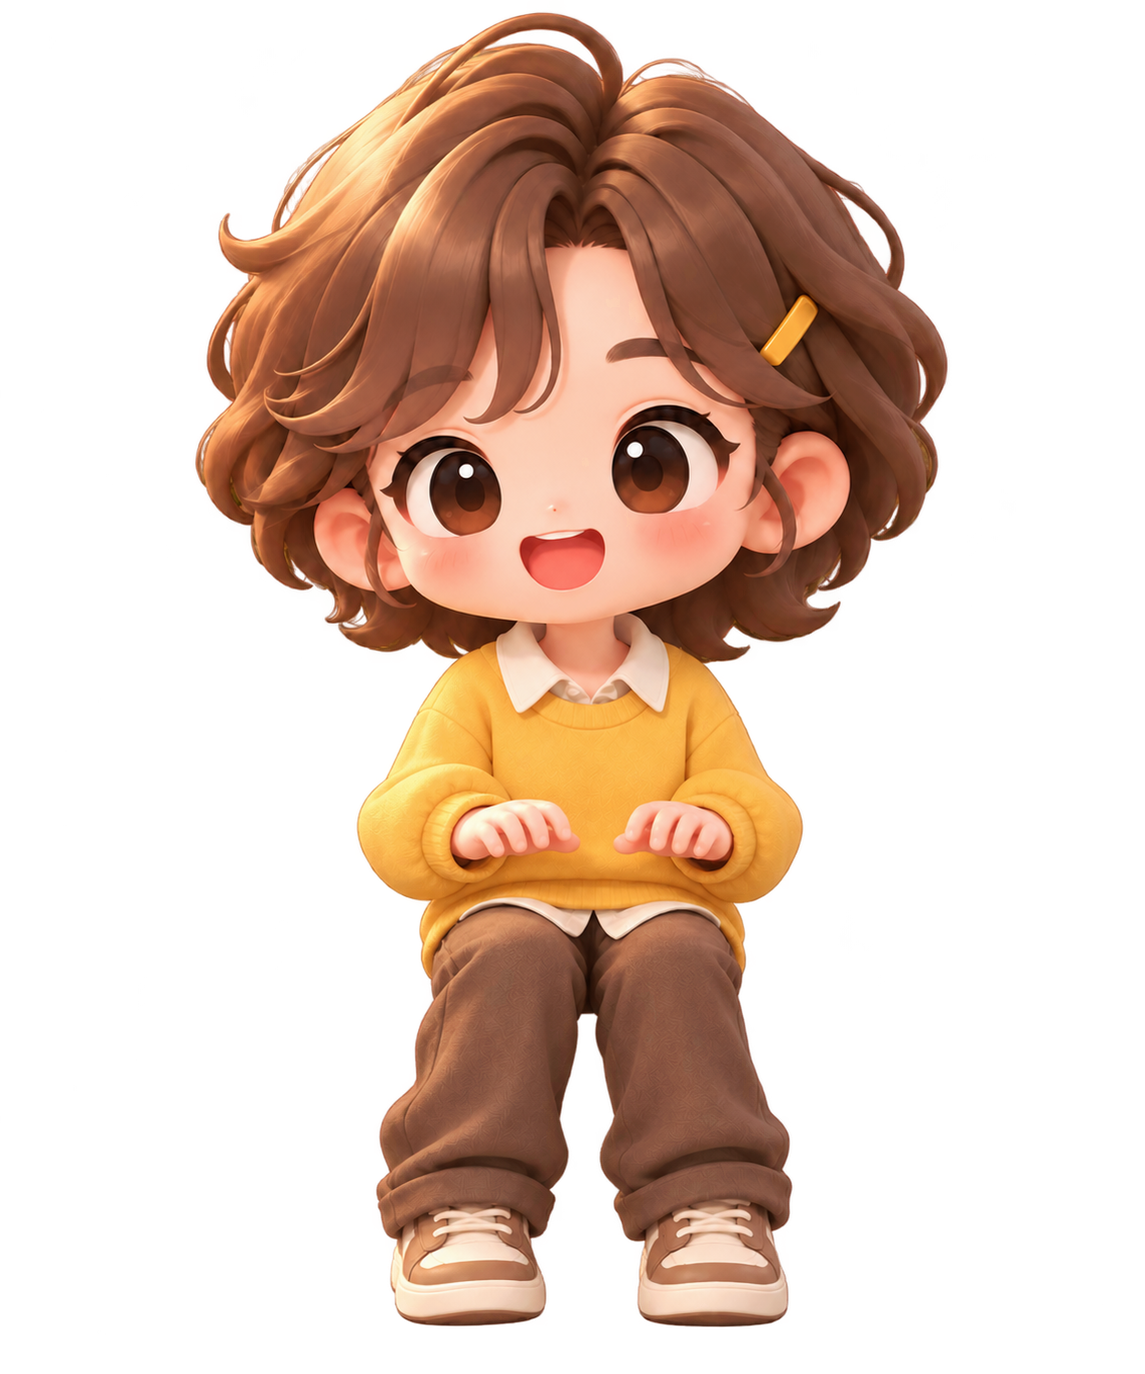
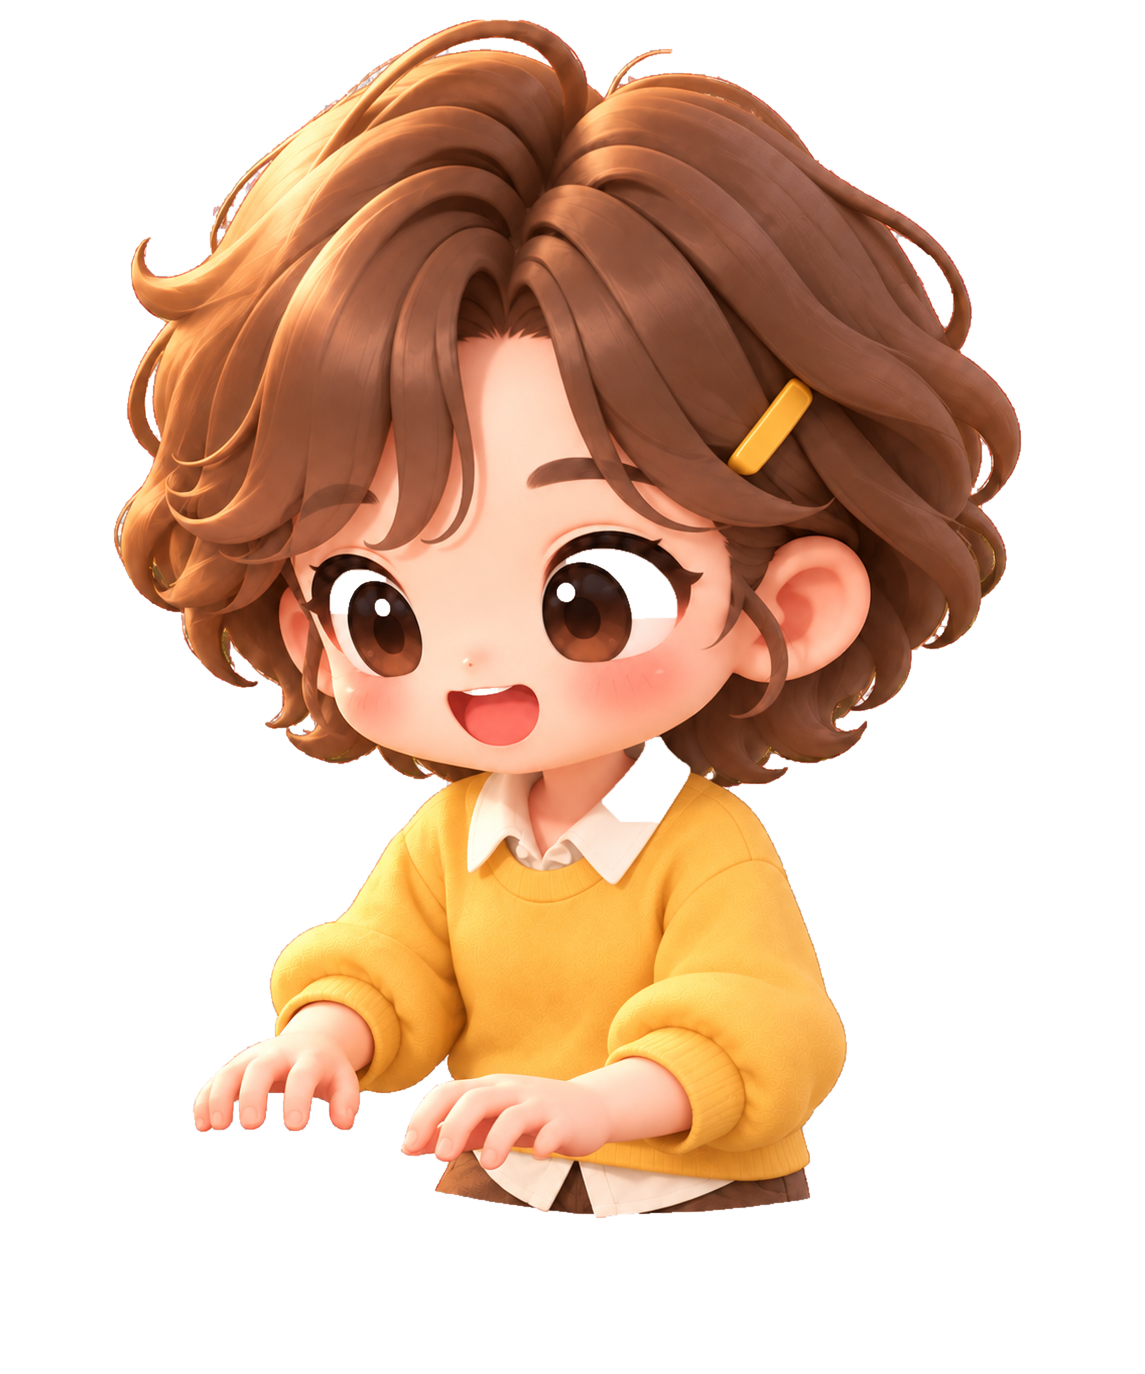
뒤로 걷고 통통 뛰고 책상을 관통하던 것 — 들어온 원화를 코드가 쓰게 한다 (#565)
* fix(console): 그림 없이 몸만 튀던 걸음 — 걸음 그림이 있을 때만 상하 흔들림을 얹는다

상하 흔들림(bob)은 걸음 **그림 위에 더해지는 보조 신호**로 설계됐는데, 그림이
없는 사람에게는 그것이 유일한 움직임이 된다. 걸음 원화는 스무 명 중 일곱만
있으므로, 나머지 열셋은 다리가 멈춘 채 몸만 위아래로 튄다 — 사용자가 "통통
뛰어다닌다" 고 본 것이 이것이다.

그림이 있는지 보고 그때만 얹는다. 없으면 bob 없이 미끄러지듯 지나가는데,
제자리뛰기보다 덜 어색하다. 근본 해결은 나머지 열세 명의 걸음 원화다.

검증: swift build · ConsoleCoreTests 9894건 · --color-check.

* feat(console): 걸음 원화 스무 명 전원과 허리 없는 착석 원화 — 뛰던 걸음과 관통하던 책상을 함께 잡는다

에셋 두 벌이 들어와 코드가 그것을 쓰게 한다(외부 제작).

**걸음 원화가 일곱 명에서 스무 명 전원으로 늘었다.** 그림이 없는 열세 명은
상하 흔들림(bob)이 유일한 움직임이라 다리가 멈춘 채 몸만 튀었다 — 사용자가
"통통 뛰어다닌다" 고 본 것이 이것이다. bob 을 그림이 있을 때만 얹도록 바꿨고,
이제 전원이 그림을 가져 검사가 항상 참이지만 그대로 둔다. 원화가 빠지거나 새
인덱스가 늘어나는 순간 같은 증상이 조용히 돌아오는 자리다.

**`sit` 원화가 허리 아래 없이 팔을 앞으로 뻗은 그림으로 다시 그려졌다**(일곱 명).
책상 뒤에 놓으면 다리가 샐 자리가 없어 "책상을 관통한" 인상이 사라진다 — 좌석
높이를 세 번 옮기고 의자를 넣고 가림판까지 대 봤지만 남던 어긋남이었다. 원인은
옛 `sit`·`typing` 이 "의자에 앉아 다리를 뻗은" 정면 그림이라 3/4 시점 책상과
원근이 맞지 않는 것이었고, 값으로는 잘리는 위치만 바뀌었다.

그래서 `typing` 요청이 **앉은 그림을 먼저 보게** 한다. 새 `sit` 이 이미 타이핑
자세라 `typing` 원화를 따로 쓸 이유가 없고, 그쪽은 옛 그림이라 같은 어긋남을
그대로 갖는다. 아직 안 바뀐 인덱스를 위해 `typing` 은 대체로 남긴다.

에셋 검사도 걸음 일곱 장이 아니라 **전원**을 요구하도록 넓혔다(외부 변경 반영).

검증: swift build · ConsoleCoreTests 9895건 · --asset-check(걸음 20장) ·
--color-check · `--busy-demo` 전체 렌더에서 교체된 인덱스가 상반신만으로
책상에 앉는 것 육안 확인.

* fix(console): 앞뒤가 섞여 있던 걸음 원화 — 이름을 내용에 맞추고 방향이 그림을 고르게 한다

들어온 걸음 원화 스무 장이 **내용상 두 벌**이었다. 기존 일곱 장(1·2·3·16~19)은
이쪽을 보고 걸어오는 앞모습이고, 새로 받은 열세 장(0·4~15)은 뒤통수가 보이는
뒷모습이다. 그런데 파일명이 모두 `-walk` 였고 코드도 방향과 무관하게 그 한 장만
[…]

diff --git a/clients/idaeri-console/Sources/ConsoleCoreTests/OfficeChoreographyTests.swift b/clients/idaeri-console/Sources/ConsoleCoreTests/OfficeChoreographyTests.swift
@@ -189,10 +189,13 @@ func runCozyPoseContractTests(_ t: TestRunner) {
         resolveCozyPose(requested: "typing", assetIndex: 10, hasAsset: cozyPoseAssetExists(10)),
         ResolvedCozyPose(pose: "sit", posture: .seated),
         "타이핑 그림이 없으면 기본 그림이 아니라 앉은 그림")
+    // 타이핑 요청은 **앉은 그림을 먼저 본다.** `sit` 원화가 허리 아래 없이 팔을 앞으로
+    // 뻗은 그림으로 다시 그려져, 책상 뒤에서 다리가 샐 자리가 없다. 옛 `typing` 원화는
+    // 의자에 앉아 다리를 뻗은 그림이라 3/4 시점 책상과 원근이 어긋난다.
     t.expectEqual(
         resolveCozyPose(requested: "typing", assetIndex: 0, hasAsset: cozyPoseAssetExists(0)),
-        ResolvedCozyPose(pose: "typing", posture: .seated),
-        "타이핑 그림이 있으면 그대로")
+        ResolvedCozyPose(pose: "sit", posture: .seated),
+        "타이핑 요청은 앉은 그림으로 해결한다")
     // 18번 `typing` 은 태블릿을 들고 **서 있는** 그림이다. 책상 좌석에 쓰면 혼자 선 채로 일한다.
     t.expectEqual(
         resolveCozyPose(requested: "typing", assetIndex: 18, hasAsset: cozyPoseAssetExists(18)),
@@ -237,17 +240,31 @@ func runCozyPoseContractTests(_ t: TestRunner) {
     // 인자를 생략하면 예전대로 요청 이름이 자세를 정한다(오피스 좌석 경로가 이 기본값을 쓴다).
     t.expectEqual(
         resolveCozyPose(requested: "typing", assetIndex: 1, hasAsset: cozyPoseAssetExists(1)),
-        ResolvedCozyPose(pose: "typing", posture: .seated),
-        "자세를 요구하지 않으면 typing 은 여전히 앉은 그림")
+        ResolvedCozyPose(pose: "sit", posture: .seated),
+        "자세를 요구하지 않으면 typing 은 여전히 앉은 자세로 해결된다")
 
-    // 걸음 그림 — 가진 사람은 그대로, 없는 사람은 정지 그림으로 접힌다(몸 기울기만 남는다).
+    // 걸음 그림은 **보는 방향으로 갈린다.** 앞모습은 1·2·3·16~19 일곱 명, 뒷모습은
+    // 0·4~15 열세 명이 가지고 있다. 반대 방향 그림으로 대신하면 뒷걸음질이 되므로
+    // 한쪽만 가진 사람은 그 반대 방향에서 정지 그림으로 접힌다.
     t.expectEqual(
         resolveCozyPose(requested: "walk", assetIndex: 1, hasAsset: cozyPoseAssetExists(1)),
         ResolvedCozyPose(pose: "walk", posture: .standing),
-        "걸음 그림이 있으면 그대로")
+        "앞모습 걸음 그림이 있으면 그대로")
+    t.expectEqual(
+        resolveCozyPose(requested: "walk-up", assetIndex: 10, hasAsset: cozyPoseAssetExists(10)),
+        ResolvedCozyPose(pose: "walk-up", posture: .standing),
+        "뒷모습 걸음 그림이 있으면 그대로")
+    // **반대 방향으로는 새지 않는다.** 10번은 뒷모습만 있으므로 앞모습 요청은 정지 그림으로
+    // 내려가야 한다 — 여기서 `walk-up` 이 뽑히면 이쪽으로 걸어오는 사람이 뒤통수를 보인다.
     t.expectEqual(
         resolveCozyPose(requested: "walk", assetIndex: 10, hasAsset: cozyPoseAssetExists(10)).pose,
-        cozyIdlePose, "걸음 그림이 없으면 정지 그림")
+        cozyIdlePose, "앞모습이 없으면 뒷모습을 대신 쓰지 않는다")
+    t.expectEqual(
+        resolveCozyPose(requested: "walk-up", assetIndex: 1, hasAsset: cozyPoseAssetExists(1)).pose,
+        cozyIdlePose, "뒷모습이 없으면 앞모습을 대신 쓰지 않는다")
+    t.expectEqual(
+        resolveCozyPose(requested: "walk", assetIndex: 10, hasAsset: { _ in false }).pose,
+        cozyIdlePose, "걸음 그림 파일이 없으면 정지 그림")
 
     // 손에 든 물건이 뜻을 나르므로 가까운 자세로 옮긴다. 0번은 writing 이 있고, 2번은 writing
     // 없이 reading 만 있으며, 10번은 둘 다 없다.

diff --git a/clients/idaeri-console/Sources/ConsoleCore/OfficeChoreography.swift b/clients/idaeri-console/Sources/ConsoleCore/OfficeChoreography.swift
@@ -103,6 +103,8 @@ public func normalizedCozyPose(_ requested: String) -> String {
         return "stowing"
     case "walk":
         return "walk"
+    case "walk-up", "walkup":
+        return "walk-up"
     default:
         return cozyIdlePose
     }
@@ -151,10 +153,13 @@ public func cozyPoseCandidates(_ normalized: String) -> [String] {
     switch normalized {
     case "sit":
         return ["sit"]
-    // 타이핑 그림이 없으면 **앉은 그림**으로 내려간다. `idle`(서 있는 그림)로 내려가면
-    // 책상 좌석에서 그 사람만 책상 위에 올라선 것처럼 보인다.
+    // **앉은 그림을 먼저 본다.** `sit` 원화는 허리 아래가 없고 팔을 앞으로 뻗은 그림으로
+    // 다시 그려졌다 — 책상 뒤에 놓으면 다리가 샐 자리가 없어 "책상을 관통한" 인상이
+    // 사라진다(사용자 보고로 재제작). 그 자세가 이미 타이핑이라 `typing` 원화를 따로
+    // 쓸 이유가 없고, `typing` 은 의자에 앉아 다리를 뻗은 옛 그림이라 3/4 시점 책상과
+    // 원근이 어긋난다. 아직 안 바뀐 인덱스를 위해 `typing` 은 대체로 남긴다.
     case "typing":
-        return ["typing", "sit"]
+        return ["sit", "typing"]
     case "reading":
         return ["reading"]
     case "writing":
@@ -165,10 +170,16 @@ public func cozyPoseCandidates(_ normalized: String) -> [String] {
         return ["writing", "reading"]
     case "stowing":
         return ["reading"]
-    // 걸음 그림은 대신할 것이 없다 — 없으면 정지 그림으로 내려가고, 그때는 몸 기울기
-    // (`officeWalkLean`)만 남아 걷는 티가 옅어진다. 스무 명 중 일곱만 가지고 있다.
+    // 걸음 그림은 **보는 방향이 다르면 대신할 수 없다.** 뒤통수 그림을 이쪽으로 걸어오는
+    // 사람에게 쓰면 뒷걸음질이 되고, 그 반대도 마찬가지다. 없으면 정지 그림으로 내려가고
+    // 그때는 몸 기울기(`officeWalkLean`)만 남는다.
+    //
+    // 원화가 두 벌로 갈려 있다 — 앞모습 일곱 명(1·2·3·16~19), 뒷모습 열세 명(0·4~15).
+    // 한쪽만 가진 사람은 반대 방향에서 정지 그림으로 걷는다.
     case "walk":
         return ["walk"]
+    case "walk-up":
+        return ["walk-up"]
     default:
         return []
     }

diff --git a/clients/idaeri-console/Sources/IdaeriConsole/OfficeScene.swift b/clients/idaeri-console/Sources/IdaeriConsole/OfficeScene.swift
@@ -2878,6 +2878,21 @@ final class OfficeScene: SKScene {
                 // 그림 교체 위에 얹는 보조 신호. 올라갈 때 빠르고 내려올 때 느리게(0.42/0.58)
                 // 해서 발을 떼는 쪽에 힘이 실린다. 진폭이 작아 "튄다" 가 아니라 걸음의 무게로만
                 // 읽힌다 — 크게 주면 다시 뛰는 것처럼 보인다.
+                // **지금 방향의 걸음 그림이 있을 때만 얹는다.** bob 은 그림 위에 더해지는
+                // 보조 신호인데, 그림이 없으면 그것이 **유일한 움직임**이 되어 다리가 멈춘
+                // 채 몸만 위아래로 튄다 — 사용자가 "통통 뛰어다닌다" 고 본 것이 이것이다.
+                //
+                // 원화는 방향별로 한쪽씩만 있다 — 앞모습 일곱 명(1·2·3·16~19), 뒷모습
+                // 열세 명(0·4~15). 그래서 이 검사는 **자주 거짓이 된다.** 앞모습만 가진
+                // 사람이 위로 걸으면, 뒷모습만 가진 사람이 아래로 걸으면 그림이 안 바뀌므로
+                // bob 을 빼고 미끄러지듯 지나간다. 제자리뛰기보다 덜 어색하다.
+                //
+                // 양쪽 원화가 다 채워지면 이 검사는 늘 참이 되지만 그때도 그대로 둔다 —
+                // 원화가 빠지거나 새 인덱스가 늘어나는 순간 같은 증상이 조용히 돌아오는
+                // 자리이고, 검사 비용은 캐시된 존재 판정 한 번이다.
+                guard node.hasWalkArtworkForCurrentFacing else {
+                    return
+                }
                 let stride = SKAction.sequence([
                     .moveBy(x: 0, y: bobHeight, duration: stepDuration * 0.42),
                     .moveBy(x: 0, y: -bobHeight, duration: stepDuration * 0.58),

diff --git a/clients/idaeri-console/Sources/IdaeriConsole/CozyAssetCheck.swift b/clients/idaeri-console/Sources/IdaeriConsole/CozyAssetCheck.swift
@@ -109,7 +109,12 @@ func runCozyAssetCheck() -> Bool {
             valid = false
         }
     }
-    let requiredWalkAssets = [1, 2, 3, 16, 17, 18, 19].map { "agent-\($0)-walk" }
+    // 걸음 원화는 **보는 방향으로 갈린다.** 앞모습과 뒷모습을 둘 다 가진 캐릭터는 아직
+    // 없으므로, 전원에게 한 쪽을 요구하면 반드시 빨간불이 된다. 각자 가진 쪽을 요구한다.
+    let frontWalkIndices = [1, 2, 3, 16, 17, 18, 19]
+    let backWalkIndices = [0] + Array(4...15)
+    let requiredWalkAssets = frontWalkIndices.map { "agent-\($0)-walk" }
+        + backWalkIndices.map { "agent-\($0)-walk-up" }
     for name in requiredWalkAssets {
         guard let url = Bundle.module.url(
             forResource: name, withExtension: "png", subdirectory: "cozy/characters"
@@ -151,15 +156,17 @@ func runCozyAssetCheck() -> Bool {
     // 걸음 그림이 **실제로 화면에 쓰이는지**를 계약 쪽에서 확인한다. 파일이 번들에 들어간
     // 것만 보면, 포즈 계약이 그 이름을 모르는 채여도 초록불이 된다 — 가구가 그려진 원화
     // 셋이 정확히 그 방식으로 조용히 안 쓰이고 있었다.
-    for index in [1, 2, 3, 16, 17, 18, 19] {
+    for (index, requested) in frontWalkIndices.map({ ($0, "walk") })
+        + backWalkIndices.map({ ($0, "walk-up") })
+    {
         let resolved = resolveCozyPose(
-            requested: "walk",
+            requested: requested,
             assetIndex: index,
             hasAsset: { pose in
                 SpriteLoader.cozyCharacterHasDedicatedPose(assetIndex: index, pose: pose)
             }
         )
-        if resolved.pose != "walk" {
+        if resolved.pose != requested {
             fputs("cozy walk artwork is not wired for agent-\(index)\n", stderr)
             valid = false
         }

diff --git a/clients/idaeri-console/Sources/IdaeriConsole/CharacterNode.swift b/clients/idaeri-console/Sources/IdaeriConsole/CharacterNode.swift
@@ -411,7 +411,11 @@ final class CharacterNode: SKNode {
         // 짝수 걸음을 정지 그림에 두는 것이 중요하다 — 걸음이 끝나는 자리(`endWalk` 가
         // `walkStep` 을 0 으로 되돌린다)와 같은 그림이라야 도착 순간에 그림이 튀지 않는다.
         if isWalking, !walkStep.isMultiple(of: 2) {
-            return "walk"
+            // **보는 방향이 그림을 고른다.** 화면 위로 가는 걸음은 뒤통수가 보여야 하고
+            // 아래로 오는 걸음은 얼굴이 보여야 한다 — 한 벌로 둘을 다 쓰면 한쪽이 반드시
+            // 뒷걸음질이 된다(사용자 보고: "뒤로 걷는다"). 좌우 걸음은 앞모습을 쓴다.
+            // 옆모습 원화가 없어 정면이 가장 덜 어색하고, 몸 기울기가 방향을 나른다.
+            return facing == .up ? "walk-up" : "walk"
         }
         return cozyIdlePose
     }
@@ -694,6 +698,12 @@ final class CharacterNode: SKNode {
         }
         // 기준 y 로 돌린다 — `.zero` 로 되돌리면 앉은 사람이 몸짓을 멈출 때마다 책상 위로 튀어오른다.
         sprite.position = CGPoint(x: 0, y: spriteBaseY)
+    }
+
+    /// 지금 걷는 방향의 걸음 그림을 가지고 있는가. 상하 흔들림을 얹을지 고르는 쪽이 쓴다 —
+    /// 방향을 안 보고 앞모습만 물으면 뒷모습만 가진 열세 명이 흔들림을 잃는다.
+    var hasWalkArtworkForCurrentFacing: Bool {
+        hasDedicatedArtwork(for: facing == .up ? "walk-up" : "walk")
     }
 
     func hasDedicatedArtwork(for pose: String) -> Bool {
